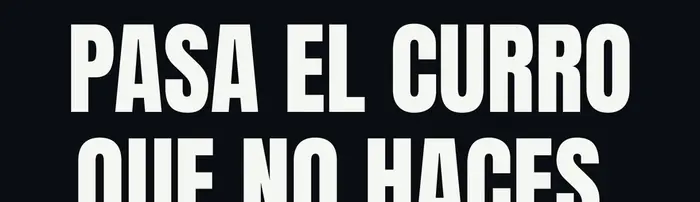
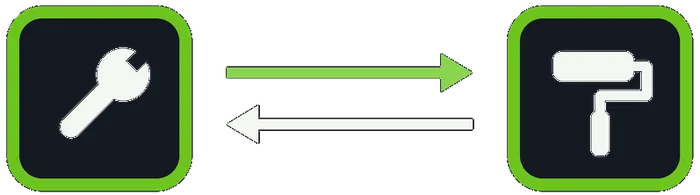
Recorta el gráfico del héroe a las fichas del fontanero y el pintor
La imagen anterior cogía el titular del anuncio. Ahora solo van las dos fichas y las flechas, con las etiquetas Fontanero y Pintor en el HTML.

diff --git a/src/pages/Landing.tsx b/src/pages/Landing.tsx
@@ -97,14 +97,27 @@ export default function Landing() {
             </motion.div>
           </motion.div>
 
-          <img
-            src="/landing/hero-fontanero-pintor.webp"
-            alt="Un fontanero y un pintor se pasan trabajo en los dos sentidos"
-            width={700}
-            height={202}
-            decoding="async"
-            className="mt-8 md:mt-10 block w-full max-w-[350px] h-auto"
-          />
+          <figure
+            className="mt-8 md:mt-10 w-full max-w-[350px] rounded-[14px] border px-3.5 pt-4 pb-3"
+            style={{ backgroundColor: '#11161d', borderColor: 'rgba(255,255,255,0.08)' }}
+          >
+            <img
+              src="/landing/hero-fontanero-pintor.webp"
+              alt="Un fontanero y un pintor se pasan trabajo en los dos sentidos"
+              width={700}
+              height={195}
+              decoding="async"
+              className="block w-full h-auto"
+            />
+            <div
+              className="mt-1.5 grid text-[13px] font-semibold leading-none text-white/75"
+              style={{ gridTemplateColumns: '26% 48% 26%' }}
+            >
+              <span className="text-center">Fontanero</span>
+              <span aria-hidden="true" />
+              <span className="text-center">Pintor</span>
+            </div>
+          </figure>
         </div>
       </section>
 
